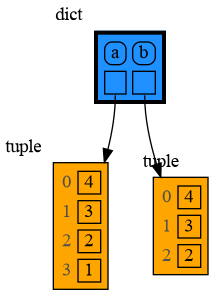
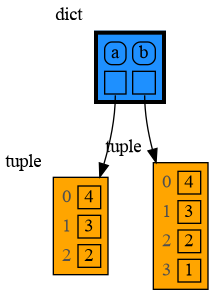
update

Changed region(s): [[0.625, 0.48, 0.9375, 0.99], [0.2188, 0.45, 0.625, 0.99], [0.0, 0.45, 0.1875, 0.57]]

diff --git a/images/mutable.py b/images/mutable.py
@@ -7,5 +7,5 @@ import memory_graph as mg
 a = [4, 3, 2]
 b = a
 mg.render(locals(), 'mutable1.png')
-a += [1] # equivalent to:  a.append(1)
+b += [1] # equivalent to:  b.append(1)
 mg.render(locals(), 'mutable2.png')

diff --git a/images/immutable.py b/images/immutable.py
@@ -7,5 +7,5 @@ import memory_graph as mg
 a = (4, 3, 2)
 b = a
 mg.render(locals(), 'immutable1.png')
-a += (1,)
+b += (1,)
 mg.render(locals(), 'immutable2.png')

diff --git a/README.md b/README.md
@@ -43,7 +43,7 @@ import memory_graph as mg
 # create the lists 'a' and 'b'
 a = [4, 3, 2]
 b = a
-a.append(1) # changing 'a' changes 'b'
+b.append(1) # changing 'b' changes 'a'
 
 # print the 'a' and 'b' list
 print('a:', a)
@@ -119,7 +119,7 @@ The [Python Data Model](https://docs.python.org/3/reference/datamodel.html) make
 
 
 ### Immutable Type ###
-In the code below variable `a` and `b` both reference the same tuple value (4, 3, 2). A tuple is an immutable type and therefore when we change variable `a` its value **cannot** be mutated in place, and thus a copy is made and `a` and `b` reference a different value afterwards.
+In the code below variable `a` and `b` both reference the same tuple value (4, 3, 2). A tuple is an immutable type and therefore when we change variable `b` its value **cannot** be mutated in place, and thus a copy is made and `a` and `b` reference a different value afterwards.
 
 ```python
 import memory_graph as mg
@@ -128,7 +128,7 @@ a = (4, 3, 2)
 b = a
 mg.render(locals(), 'immutable1.png')
 
-a += (1,)
+b += (1,)
 mg.render(locals(), 'immutable2.png')
 ```
 | ![mutable1.png](https://raw.githubusercontent.com/bterwijn/memory_graph/main/images/immutable1.png) | ![mutable2.png](https://raw.githubusercontent.com/bterwijn/memory_graph/main/images/immutable2.png) |
@@ -137,7 +137,7 @@ mg.render(locals(), 'immutable2.png')
 
 
 ### Mutable Type ###
-With mutable types the result is different. In the code below variable `a` and `b` both reference the same `list` value [4, 3, 2]. A `list` is a mutable type and therefore when we change variable `a` its value **can** be mutated in place and thus `a` and `b` both reference the same new value afterwards. Thus changing `a` also changes `b` and vice versa. Sometimes we want this but other times we don't and then we will have to make a copy ourselfs so that `a` and `b` are independent.
+With mutable types the result is different. In the code below variable `a` and `b` both reference the same `list` value [4, 3, 2]. A `list` is a mutable type and therefore when we change variable `b` its value **can** be mutated in place and thus `a` and `b` both reference the same new value afterwards. Thus changing `b` also changes `a` and vice versa. Sometimes we want this but other times we don't and then we will have to make a copy ourselfs so that `a` and `b` are independent.
 
 ```python
 import memory_graph as mg
@@ -146,7 +146,7 @@ a = [4, 3, 2]
 b = a
 mg.render(locals(), 'mutable1.png')
 
-a += [1] # equivalent to:  a.append(1)
+b += [1] # equivalent to:  b.append(1)
 mg.render(locals(), 'mutable2.png')
 ```
 | ![mutable1.png](https://raw.githubusercontent.com/bterwijn/memory_graph/main/images/mutable1.png) | ![mutable2.png](https://raw.githubusercontent.com/bterwijn/memory_graph/main/images/mutable2.png) |
